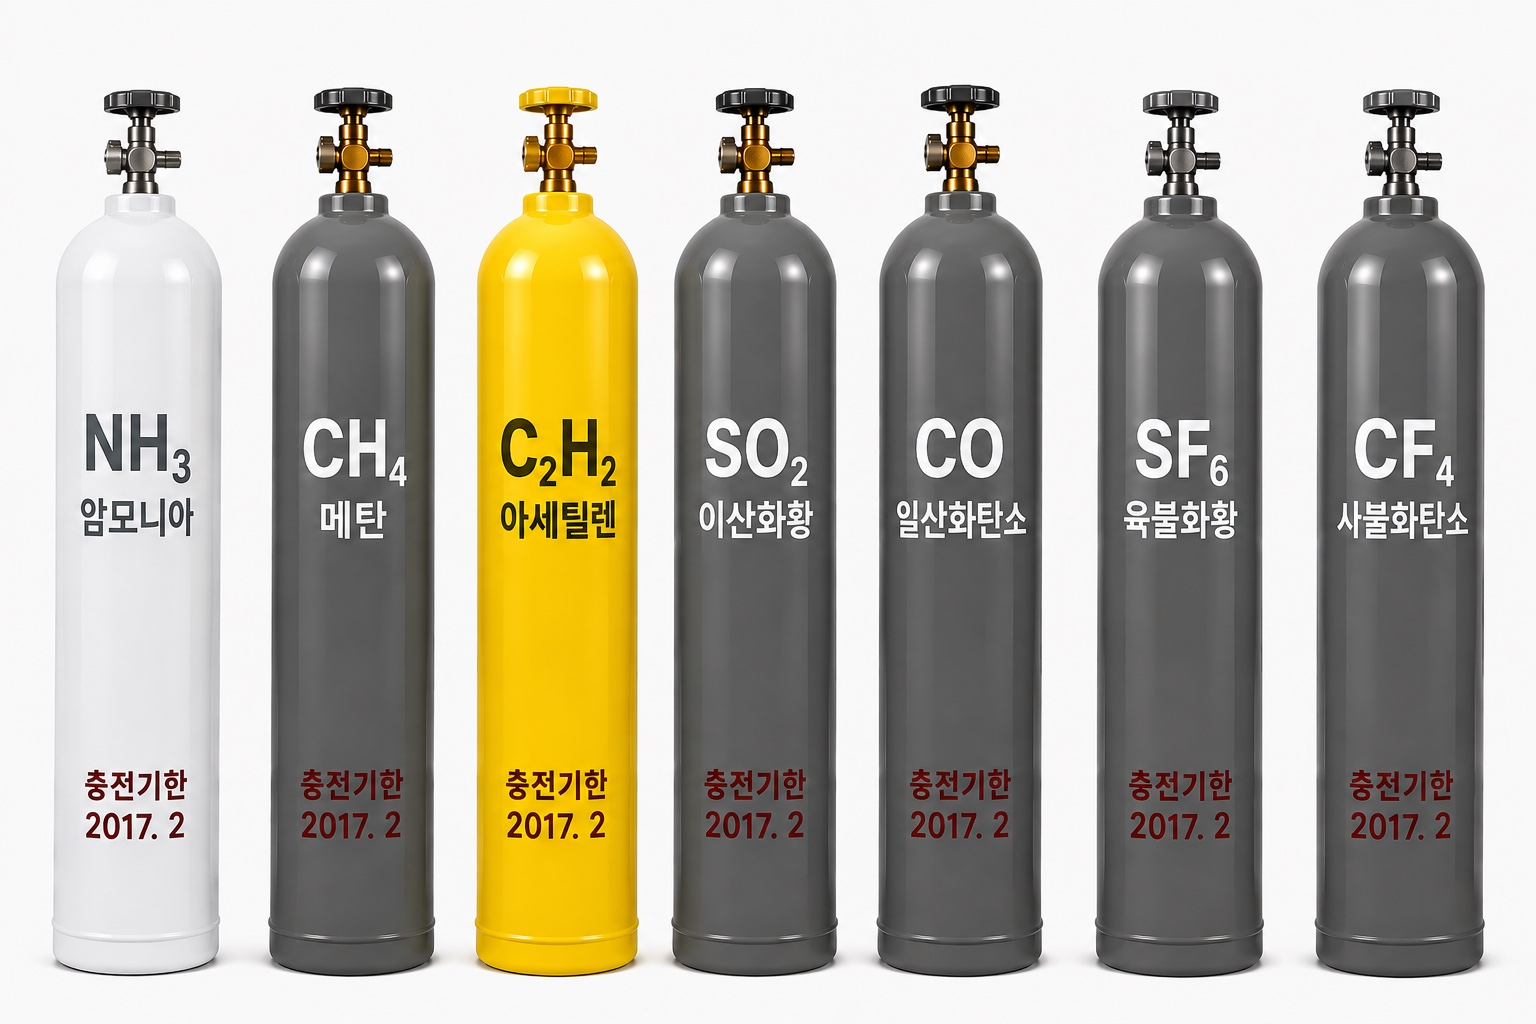
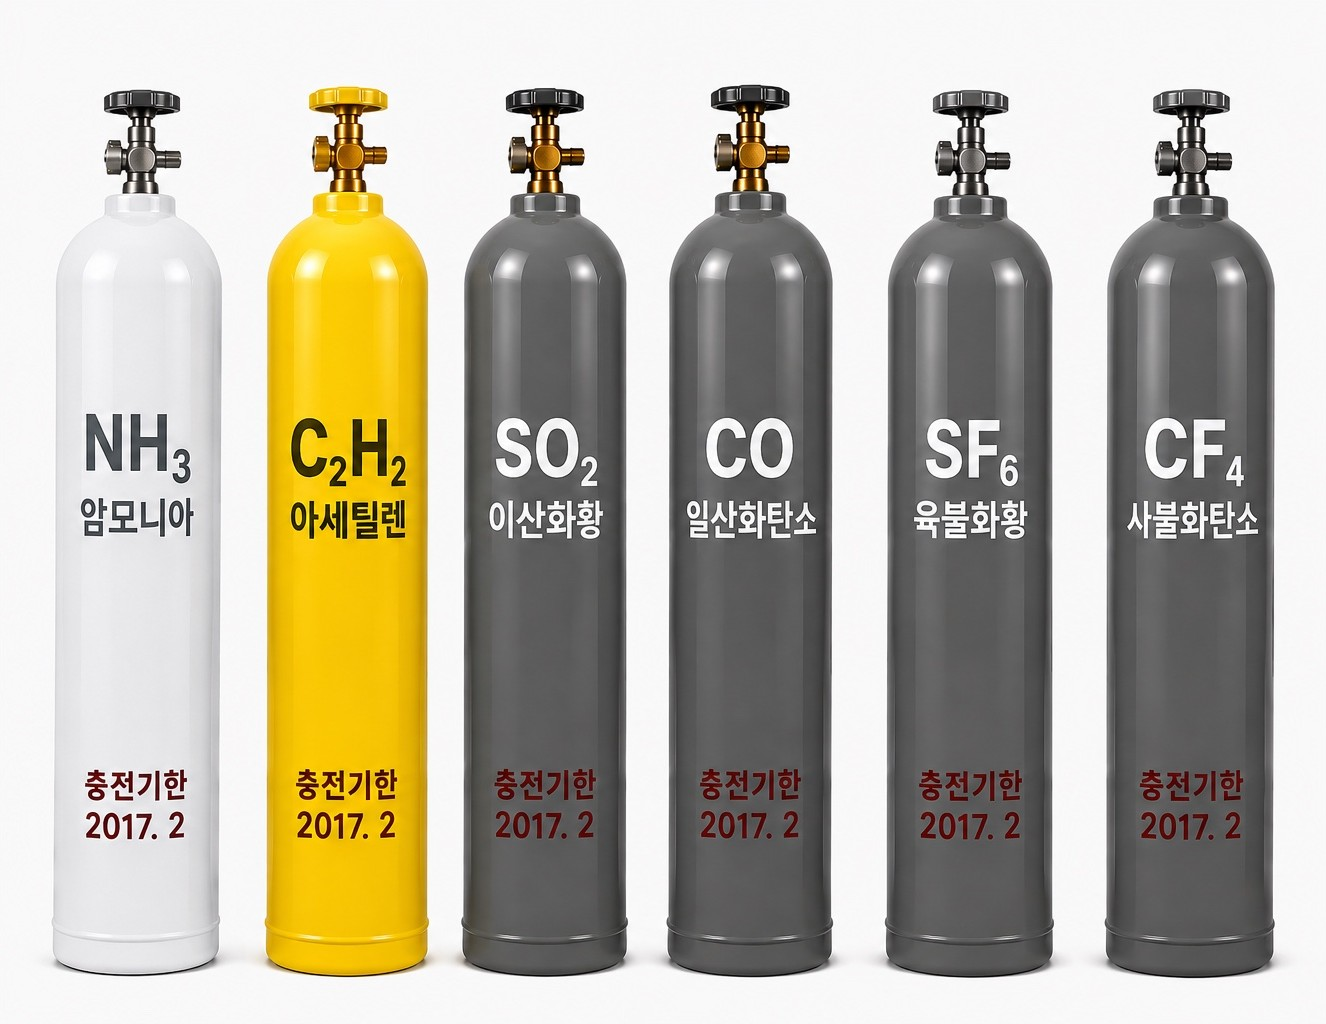
제품 라인업 특수·혼합가스 탭을 소제목형 카드 3개(초고순도/맞춤혼합/특수가스: 아이콘·제목·소개)로 재구성해 산업용·의료용 탭과 통일, 특수가스 이미지 6종(메탄 제외)으로 조정

diff --git a/products-gas.html b/products-gas.html
@@ -215,20 +215,29 @@
               <h3 class="prodlineup__title" data-i18n="products.cat.spec">특수·혼합가스</h3>
               <p class="prodlineup__desc">정제설비로 초고순도(99.999% 이상) 가스를 제조·공급합니다.</p>
               <ul class="prodgrid prodgrid--3">
-                <li class="pgcard">
+                <li class="pgcard pgcard--titled">
+                  <div class="pgcard__head">
+                    <span class="pgcard__ic" aria-hidden="true"><svg viewBox="0 0 24 24" fill="none" stroke="currentColor" stroke-width="1.7" stroke-linecap="round" stroke-linejoin="round"><path d="M12 2.5l2.1 5.4 5.4 2.1-5.4 2.1L12 17.5l-2.1-5.4-5.4-2.1 5.4-2.1z"/><path d="M18.5 16.5l.7 1.8 1.8.7-1.8.7-.7 1.8-.7-1.8-1.8-.7 1.8-.7z"/></svg></span>
+                    <div><b class="pgcard__name">초고순도 가스</b><span class="pgcard__lead">고순도(High Purity)로 정제한 특수 산업용 가스를 공급합니다.</span></div>
+                  </div>
                   <a class="pgcard__media" href="support.html"><img src="assets/images/site/page-hero-gas.jpg?v=20260715-6" alt="초고순도 가스" loading="lazy"></a>
-                  <b class="pgcard__title">초고순도 가스</b>
-                  <p class="pgcard__text">99.999% 이상 정제한 초고순도(High Purity) 가스</p>
+                  <p class="pgcard__text pgcard__text--gases">초고순도 가스 (High Purity)</p>
                 </li>
-                <li class="pgcard pgcard--cyl">
+                <li class="pgcard pgcard--titled pgcard--cyl">
+                  <div class="pgcard__head">
+                    <span class="pgcard__ic" aria-hidden="true"><svg viewBox="0 0 24 24" fill="none" stroke="currentColor" stroke-width="1.7" stroke-linecap="round" stroke-linejoin="round"><circle cx="9" cy="10" r="5.2"/><circle cx="15" cy="14" r="5.2"/></svg></span>
+                    <div><b class="pgcard__name">맞춤 혼합가스</b><span class="pgcard__lead">고객 요구 조성에 맞춘 주문형 혼합가스를 공급합니다.</span></div>
+                  </div>
                   <a class="pgcard__media" href="support.html"><img src="assets/images/site/gas-mixed.jpg?v=20260831" alt="혼합가스 실린더" loading="lazy"></a>
-                  <b class="pgcard__title">맞춤 혼합가스</b>
-                  <p class="pgcard__text">고객 요구 조성에 맞춘 주문형 혼합가스</p>
+                  <p class="pgcard__text pgcard__text--gases">맞춤 혼합가스</p>
                 </li>
-                <li class="pgcard pgcard--cyl">
-                  <a class="pgcard__media" href="support.html"><img src="assets/images/site/gas-special.jpg?v=20260831b" alt="암모니아·메탄·아세틸렌·이산화황·일산화탄소 특수가스 실린더" loading="lazy"></a>
-                  <b class="pgcard__title">특수가스</b>
-                  <p class="pgcard__text">암모니아·메탄·아세틸렌·이산화황·일산화탄소·육불화황·사불화탄소 등 첨단 산업용 특수가스</p>
+                <li class="pgcard pgcard--titled pgcard--cyl">
+                  <div class="pgcard__head">
+                    <span class="pgcard__ic" aria-hidden="true"><svg viewBox="0 0 24 24" fill="none" stroke="currentColor" stroke-width="1.7" stroke-linecap="round" stroke-linejoin="round"><path d="M9 3h6M10 3v6l-4.6 8a2 2 0 0 0 1.7 3h9.8a2 2 0 0 0 1.7-3L14 9V3"/><line x1="8" y1="15" x2="16" y2="15"/></svg></span>
+                    <div><b class="pgcard__name">특수가스</b><span class="pgcard__lead">반도체·전자·분석 등 첨단 산업 현장용 특수가스를 공급합니다.</span></div>
+                  </div>
+                  <a class="pgcard__media" href="support.html"><img src="assets/images/site/gas-special.jpg?v=20260909" alt="암모니아·아세틸렌·이산화황·일산화탄소·육불화황·사불화탄소 특수가스 실린더" loading="lazy"></a>
+                  <p class="pgcard__text pgcard__text--gases">암모니아·아세틸렌·이산화황·일산화탄소·육불화황·사불화탄소</p>
                 </li>
               </ul>
             </div>
